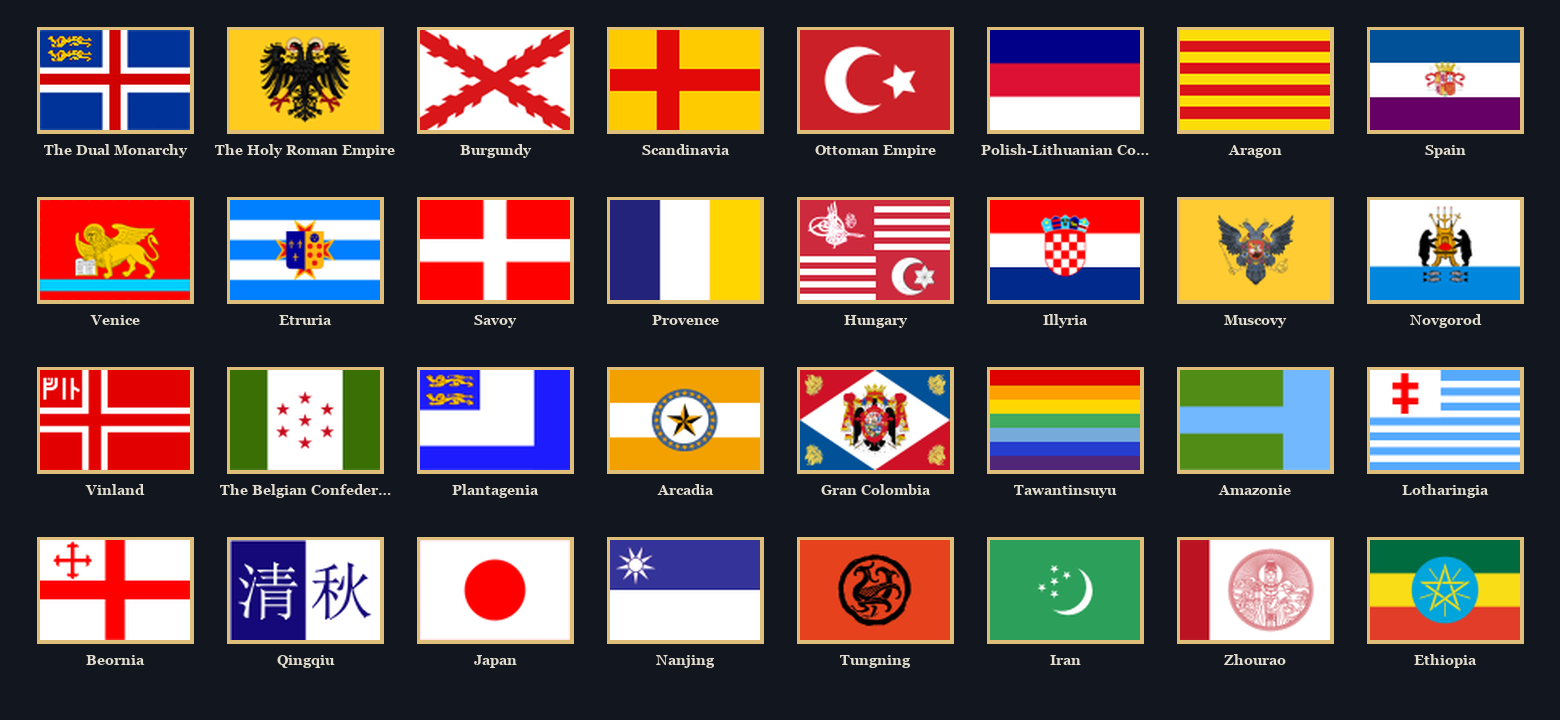
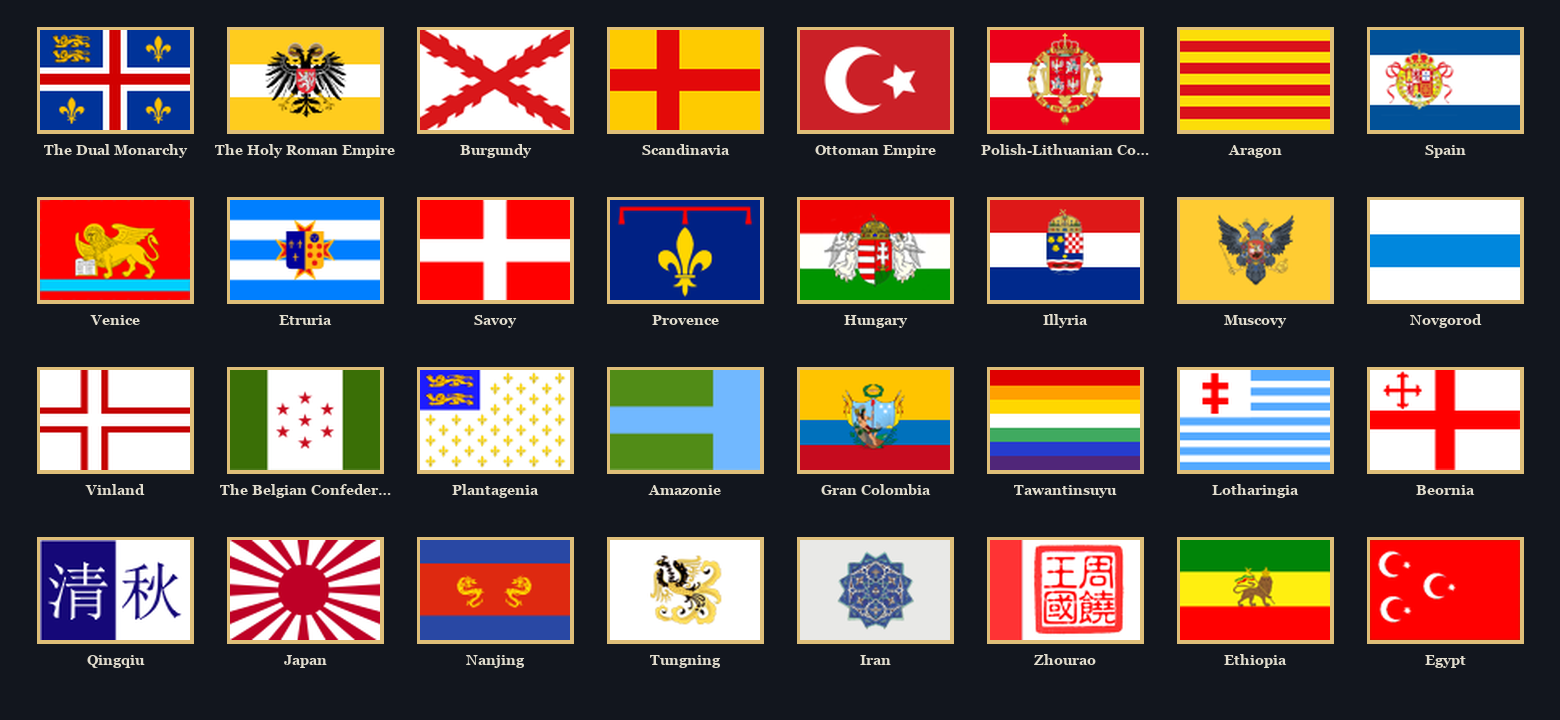
Show the correct 1836 government flags in the README gallery

diff --git a/README.md b/README.md
@@ -59,7 +59,7 @@ This repository is a **Victoria 3 port** of the Victoria 2 mod. It isn't a line-
 
 <p align="center">
   <img src="images/flags.png" alt="Flags of Divergences of Darkness" width="100%">
-  <br><sub>A few of the 2,864 flags ported from the original mod, including government variants.</sub>
+  <br><sub>The flags each country flies in 1836. 2,864 flags were ported from the original mod, including every government variant.</sub>
 </p>
 
 | | |
